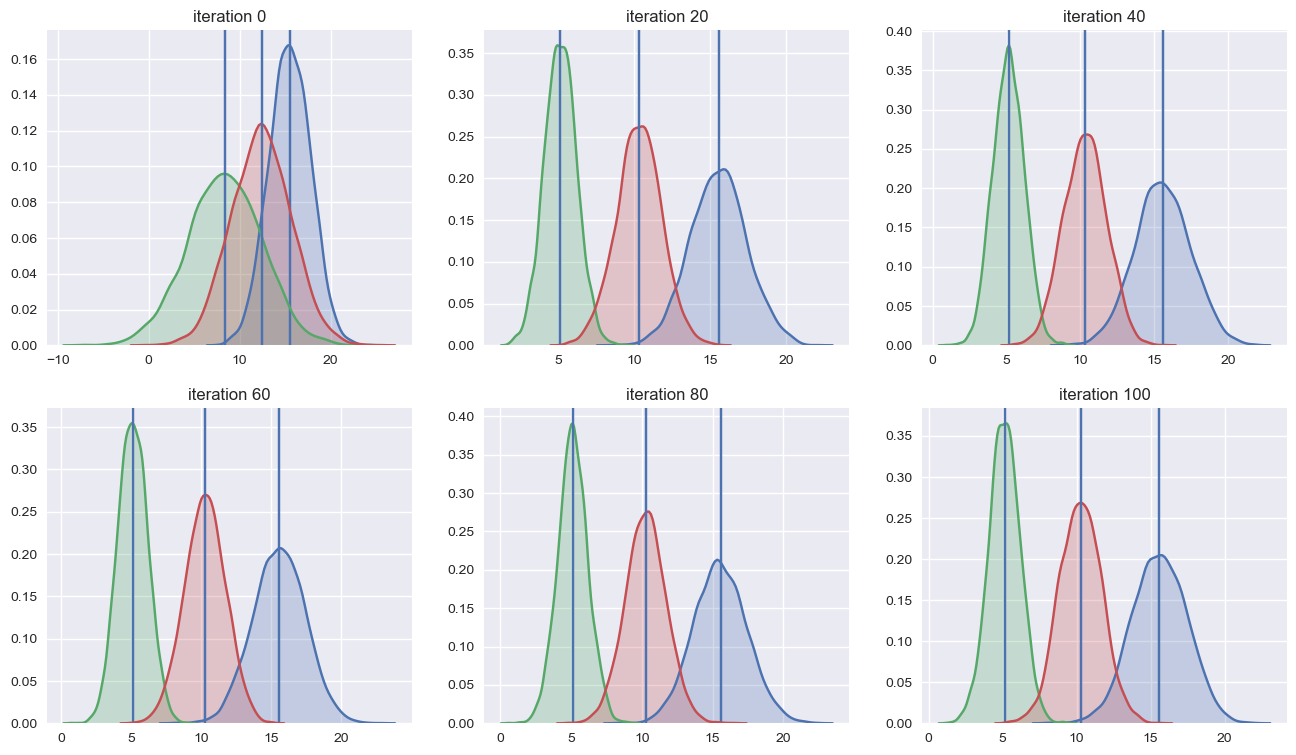
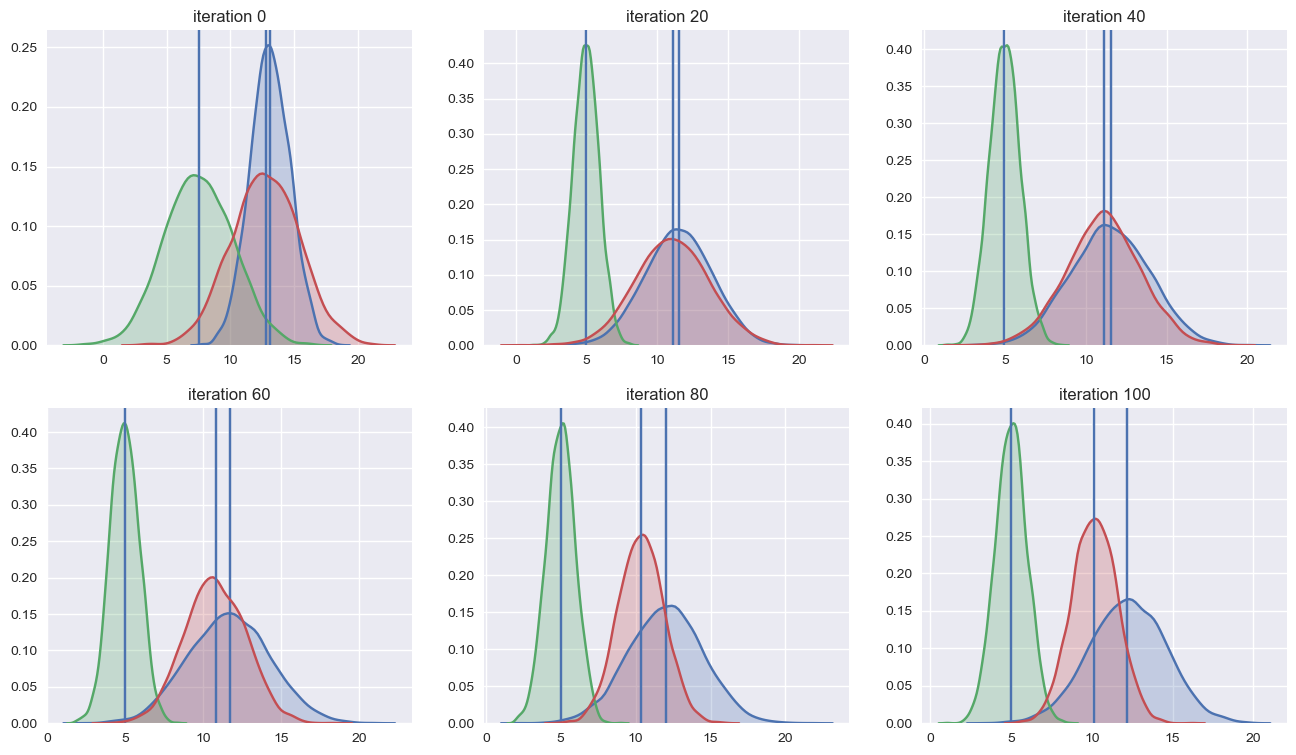
added comments

diff --git a/expectation_maximization.py b/expectation_maximization.py
@@ -66,28 +66,32 @@ def expectation_maximization(data, n_clust, with_plot = False, max_iter = 50) ->
     vars = [np.random.randint(low=1, high=20, size=1)[0] for i in range(n_clust)]
 
     pi = [np.random.sample() for i in range(n_clust)]
-    pi = softmax(pi)
+    pi = softmax(pi) #to make the random probabilites sum to 1
 
     probabilites = [[pi[j] for i in data] for j in range(n_clust)]
     iter_num = 0
-    if with_plot:
+    if with_plot: #setting up logistics for plotting
         progress = 0
         plot_num = 0
         fig, axs = plt.subplots(2, 3)
     while iter_num <= max_iter:
 
         for n in range(n_clust):
-            current_pi = pi[n]
+            current_pi = pi[n] #probability for current distribution
             for i in range(len(data)):
+                #E-step
                 xi = data[i]
+                #calculating the probability that the observation belongs to n'th cluster
                 numerator = stats.norm.pdf(x = xi, loc = means[n], scale = math.sqrt(vars[n])) * current_pi
                 denominator = sum([stats.norm.pdf(x = xi, loc = means[k], scale = math.sqrt(vars[k])) * (pi[k]) for k in range(n_clust)])
-                #denominator = numerator + (stats.norm.pdf(x = xi, loc = means[1], scale = math.sqrt(vars[1])) * (1 - pi))
-                prob = numerator/denominator
-                probabilites[n][i] = prob
-                #probabilites[1][i] = 1 - prob
 
+                prob = numerator/denominator
+                probabilites[n][i] = prob #probabilty that the data point belongs to n'th cluster
+
+
+        #M-Step
         for n in range(len(means)):
+            #recalculating means and variances based on probabilities computed earlier
             means[n] = sum([probabilites[n][i] * data[i] for i in range(len(data))])/sum(probabilites[n])
             vars[n] = sum([probabilites[n][i] * ((data[i] - means[n])**2) for i in range(len(data))])/sum(probabilites[n])
 
@@ -111,6 +115,9 @@ def expectation_maximization(data, n_clust, with_plot = False, max_iter = 50) ->
 
 
 def plot_means_variances(names, true_means, estimated_means, true_vars, estimated_vars):
+    """
+    function to plot true means and variacnes in comparison with estimated means and variances.
+    """
     fig, axs = plt.subplots(2, 1)
     width = 0.20
     axs[0].bar([i for i in range(len(names))], true_means, width = width, label = "True Means")
@@ -155,9 +162,9 @@ def plot_means_variances(names, true_means, estimated_means, true_vars, estimate
 if __name__ == "__main__":
     plt.style.use('seaborn')
     n = 1000 #number of points to generate
-    true_means = [5, 10, 15]
+    true_means = [5, 10, 13]
     true_vars = [1, 2, 4]
-    clusters = 3
+    clusters = 3 #number of hidden clusters
     names = ["Cluster " + str(i + 1) for i in range(clusters)]
 
     data = data_generation(n = n, clusters= clusters, means= true_means, vars=true_vars)
